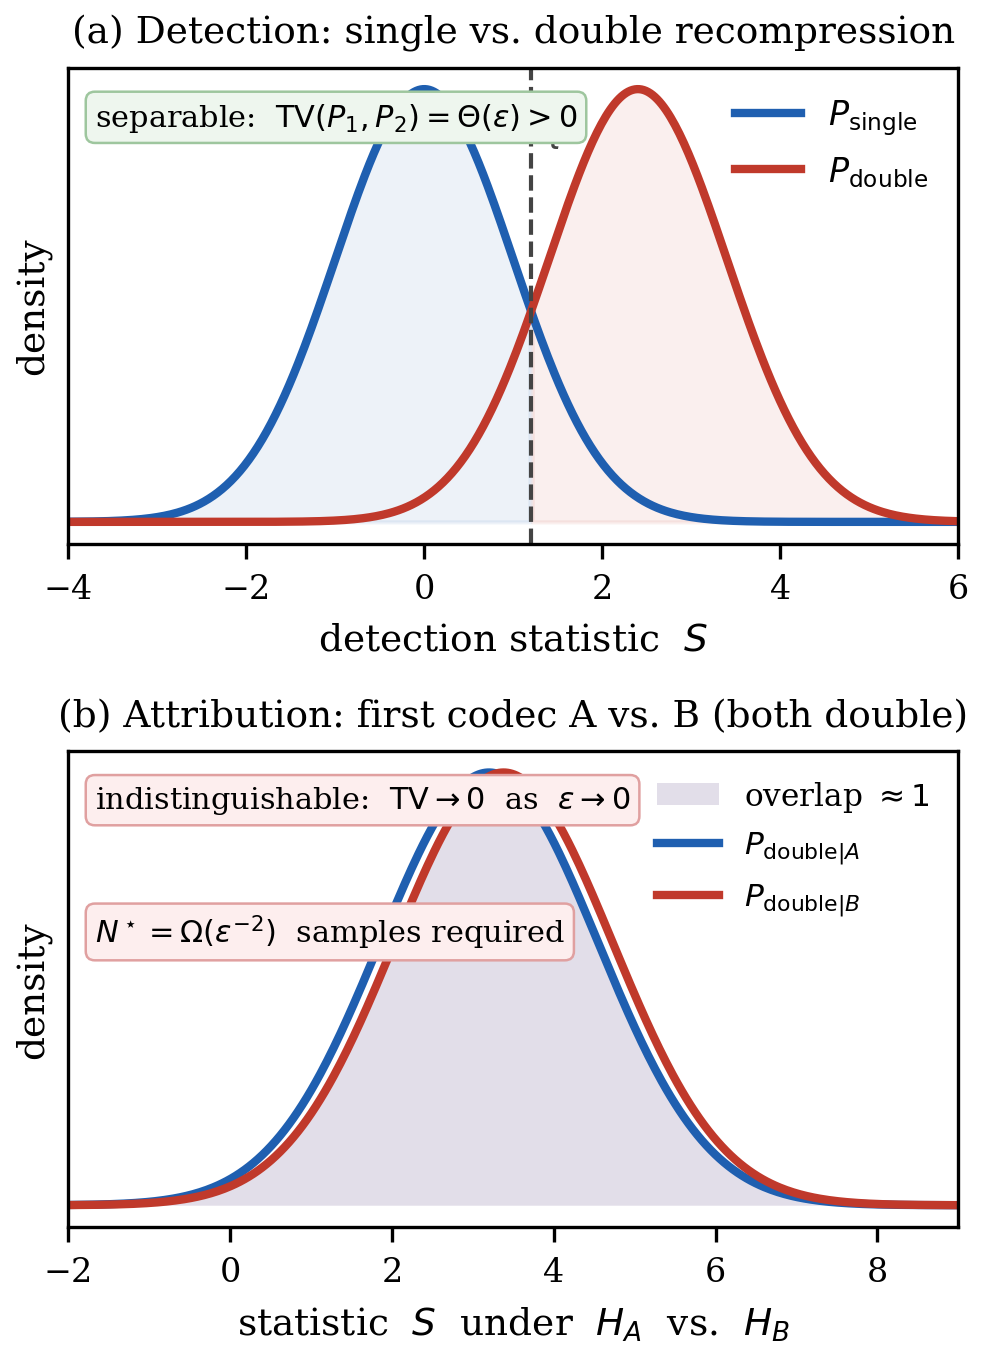
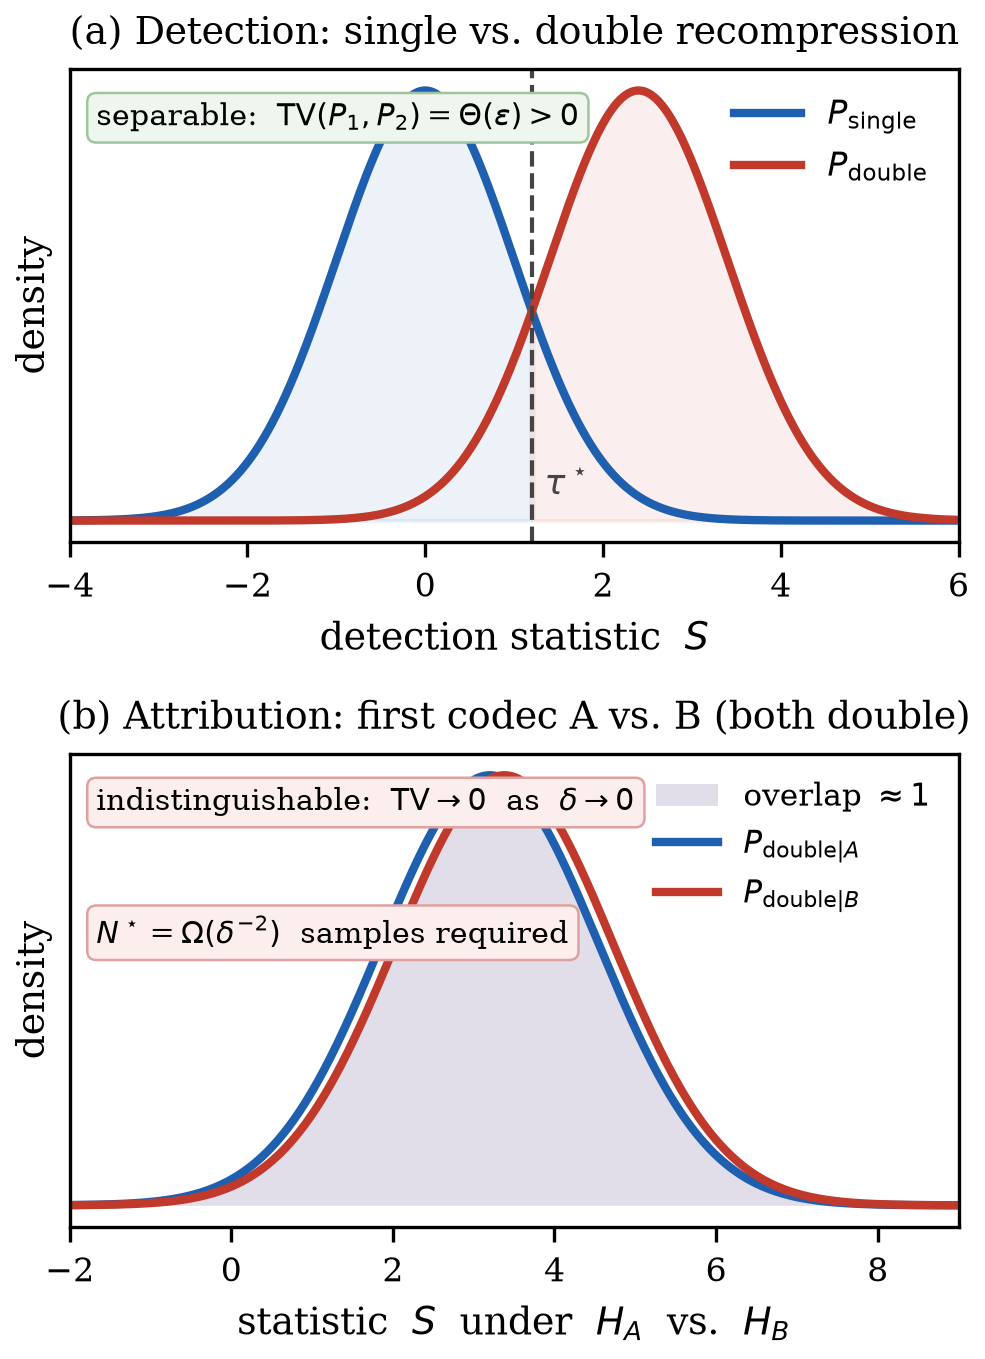
Distinguish the content distance delta from the quantization gap epsilon in the attribution figure

diff --git a/part1_theory/figures/detect_vs_attribute/generator.py b/part1_theory/figures/detect_vs_attribute/generator.py
@@ -32,7 +32,7 @@ ax1.plot(x, p1, color=BLUE, lw=2.0, label=r'$P_{\mathrm{single}}$')
 ax1.plot(x, p2, color=RED, lw=2.0, label=r'$P_{\mathrm{double}}$')
 tau = 1.2
 ax1.axvline(tau, color=GREY, ls='--', lw=1.0)
-ax1.text(tau + 0.12, 0.86, r'$\tau^\star$', fontsize=8.5, color=GREY)
+ax1.text(tau + 0.14, 0.06, r'$\tau^\star$', fontsize=8.5, color=GREY)
 ax1.fill_between(x, p2, where=(x > tau), color=RED, alpha=0.08)
 ax1.fill_between(x, p1, where=(x < tau), color=BLUE, alpha=0.08)
 ax1.set_title('(a) Detection: single vs. double recompression', fontsize=9)
@@ -59,10 +59,10 @@ ax2.set_ylabel('density')
 ax2.set_yticks([])
 ax2.set_xlim(-2, 9)
 ax2.legend(loc='upper right', frameon=False, fontsize=7.5)
-ax2.text(0.03, 0.93, r'indistinguishable:  $\mathrm{TV}\to 0$  as  $\varepsilon\to 0$',
+ax2.text(0.03, 0.93, r'indistinguishable:  $\mathrm{TV}\to 0$  as  $\delta\to 0$',
          transform=ax2.transAxes, fontsize=7.3, va='top',
          bbox=dict(boxstyle='round', fc='#fdeeee', ec='#e0a0a0', lw=0.6))
-ax2.text(0.03, 0.66, r'$N^\star=\Omega(\varepsilon^{-2})$  samples required',
+ax2.text(0.03, 0.66, r'$N^\star=\Omega(\delta^{-2})$  samples required',
          transform=ax2.transAxes, fontsize=7.3, va='top',
          bbox=dict(boxstyle='round', fc='#fdeeee', ec='#e0a0a0', lw=0.6))
 
